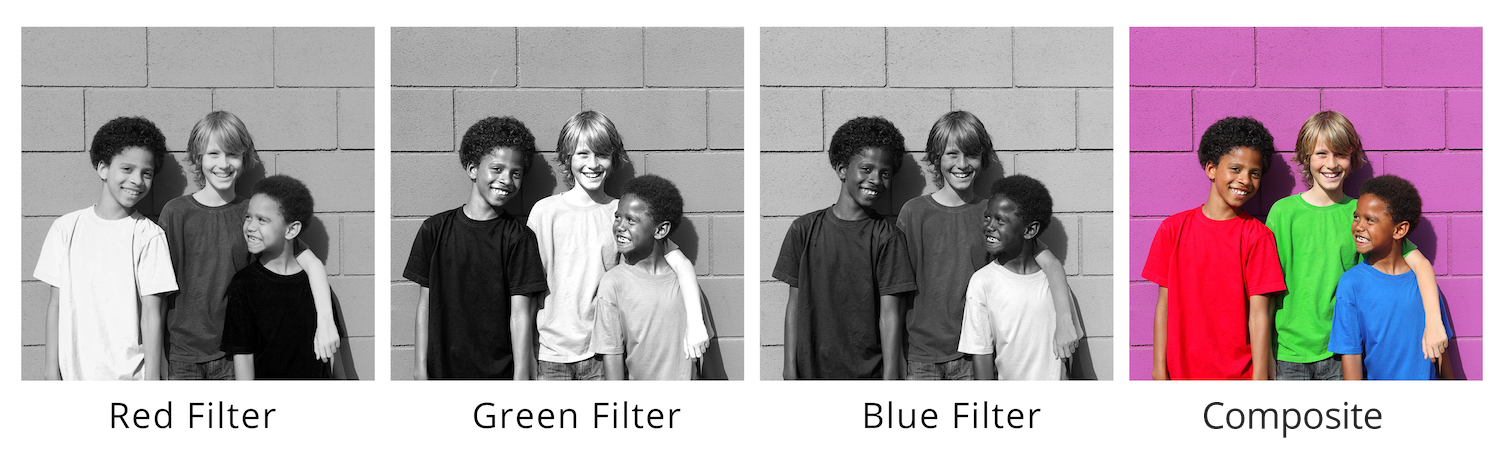
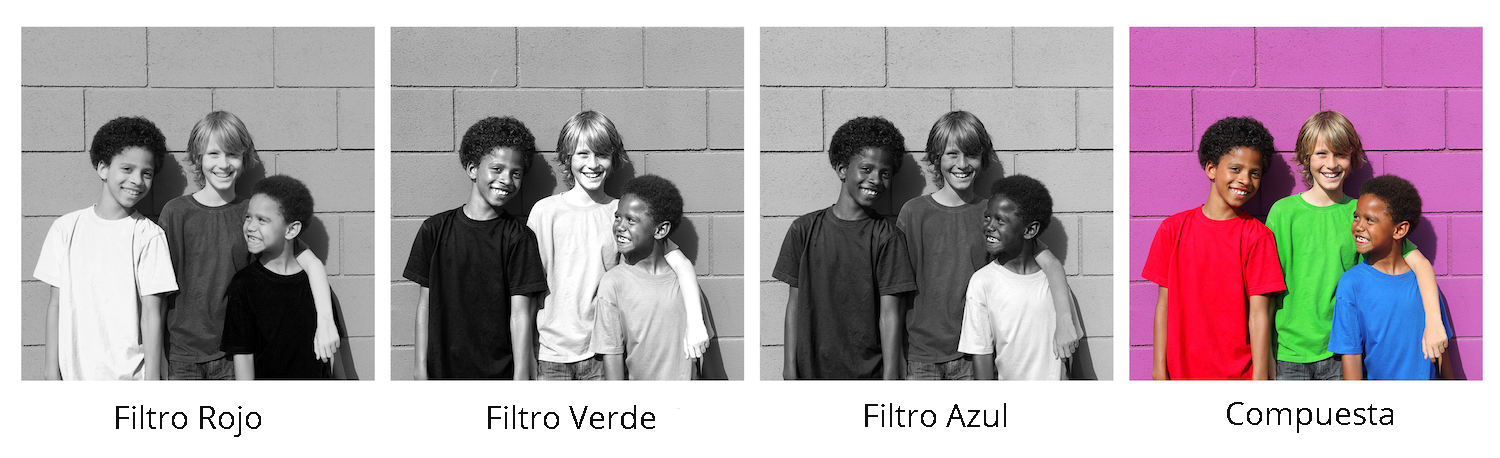
Spanish translation of graphics/button/dropdowns

diff --git a/es/pintando-el-universo/index.html b/es/pintando-el-universo/index.html
@@ -2,7 +2,7 @@
 <html lang="es" >
   <head>
     <meta charset="utf-8">
-    <meta name="Pintando el Univers" content="Coloring the Universe">
+    <meta name="Pintando el Univers" content="Pintando el Universo">
     <meta name="viewport" content="width=device-width, initial-scale=1">
     <title>Pintando el Universo</title>
     <link type="text/css" rel="stylesheet" href="https://stackpath.bootstrapcdn.com/bootstrap/4.1.3/css/bootstrap.min.css" integrity="sha384-MCw98/SFnGE8fJT3GXwEOngsV7Zt27NXFoaoApmYm81iuXoPkFOJwJ8ERdknLPMO" crossorigin="anonymous">
@@ -63,7 +63,7 @@
       <b>Tipos de luz</b>
       <p>Hay muchos tipos de <a href="https://imagine.gsfc.nasa.gov/science/toolbox/emspectrum1.html">radiación electromagnética</a>: ondas de radio, infrarrojo, visible, ultravioleta (UV), rayos X, etc. Los astrónomos se refieren a todos estos tipos de radiación como luz. Cada tipo de luz tiene un rango específico de longitudes de onda y energías. El tipo de luz que podemos ver con nuestros ojos se llama luz "visible".
     </p>
-    <img class="fig wide" src="assets/images/EM-spectrum-full.jpg">
+    <img class="fig wide" src="assets/images/EM-spectrum-full.png">
     <p class="credit">Figura 1: El Espectro Electromagnético. Adaptado de <a href="https://imagine.gsfc.nasa.gov/Images/science/EM_spectrum_full.jpg">https://imagine.gsfc.nasa.gov/Images/science/EM-spectrum-full.jpg</a></p>
     <p>La luz visible contiene todos los colores del arco iris, como se muestra a continuación. Los diferentes colores corresponden a diferentes longitudes de onda y energías. Dentro del rango de luz que podemos ver, la luz roja tiene la energía más baja y las longitudes de onda más largas; el violeta tiene la energía más alta y las longitudes de onda más cortas.</p>
     <img class="fig" src="assets/images/visible-spectrum2.png">
@@ -108,8 +108,8 @@
           </div>
         </div>
       </div>
-      <p id="prism-label">prisma</p>
-      <p id="white-light-label">la luz blanca →  </p>
+      <p id="prism-label">Prisma</p>
+      <p id="white-light-label">Luz blanca →  </p>
     </div>
     <input type="radio" class="prism-radio" name="prism" value="red" onchange="prismColor(this.value)"> Rojo</input>
     <input type="radio" class="prism-radio" name="prism" value="orange" onchange="prismColor(this.value)"> Naranja</input>
@@ -179,13 +179,13 @@
     <li>Elige las palabras correctas para terminar esta oración:</li>
     <p>"La polera roja se ve
       <select class="custom-select my-1 mr-sm-2 student-answer-mc">
-        <option selected>Choose ...</option>
+        <option selected>Elige ...</option>
         <option value="1">luminosa</option>
         <option value="2">obscura</option>
       </select>
       en la imagen tomada a través del filtro rojo porque el filtro rojo”
       <select class="custom-select my-1 mr-sm-2 student-answer-mc">
-        <option selected>Choose ...</option>
+        <option selected>Elige ...</option>
         <option value="1">deja pasar</option>
         <option value="2">bloquea</option>
       </select>
@@ -193,12 +193,12 @@
     <li>Elige las palabras correctas para terminar esta oración:
       <p>“La polera verde se ve
         <select class="custom-select my-1 mr-sm-2 student-answer-mc">
-          <option selected>Choose ...</option>
+          <option selected>Elige ...</option>
           <option value="1">luminosa</option>
           <option value="2">obscura</option>
         </select>  en la imagen tomada a través del filtro rojo porque el filtro rojo
         <select class="custom-select my-1 mr-sm-2 student-answer-mc">
-          <option selected>Choose ...</option>
+          <option selected>Elige ...</option>
           <option value="1">deja pasar</option>
           <option value="2">bloquea</option>
         </select>
@@ -226,30 +226,30 @@
       <!-- Words and Sliders -->
       <div class="col-12 col-md-4">
         <br>
-        <h1 class="widget-title">RGB Color Mixing Tool</h1>
+        <h1 class="widget-title">Herramienta para mezclar colores</h1>
         <br><br><br>
         <div class="filter" id="red-filter">
-          <p class="filter-titles titles-right">Colors </p>
-          <p class="filter-titles">Filter on/off </p>
+          <p class="filter-titles titles-right">Colores </p>
+          <p class="filter-titles">Filtro encendido/apagado </p>
           <input class="form-check-input" type="checkbox" onchange="check(this.parentNode.id)"><p class="filter-label">R</p>
           <input type="range" min=".7" max="1.5" step=".01" value="1.17" class="range" onchange="updateSlider(this.value, this.parentNode.id)">
           <select class="custom-select object-select" id="red-select" aria-label="Color" onchange="selectColor(this.value, this.parentNode.id)">
-            <option value="" disabled selected>Color</option>
+            <option value="" disabled selected>Colores</option>
             <option value="red">Rojo</option>
             <option value="green">Verde</option>
             <option value="blue">Azul</option>
-            <option value="transparent">None</option>
+            <option value="transparent">Ninguno</option>
           </select>
         </div>
         <div class="filter" id="green-filter">
           <input class="form-check-input" type="checkbox" onchange="check(this.parentNode.id)"> <p class="filter-label">G</p>
           <input type="range" min=".7" max="2" step=".01" value="1.64" onchange="updateSlider(this.value, this.parentNode.id)">
           <select class="custom-select object-select" id="green-select" aria-label="Color" onchange="selectColor(this.value, this.parentNode.id)">
-            <option value="" disabled selected>Color</option>
+            <option value="" disabled selected>Colores</option>
             <option value="red">Rojo</option>
             <option value="green">Verde</option>
             <option value="blue">Azul</option>
-            <option value="transparent">None</option>
+            <option value="transparent">Ninguno</option>
           </select>
         </div>
         
@@ -257,11 +257,11 @@
           <input class="form-check-input" type="checkbox" onchange="check(this.parentNode.id)"> <p class="filter-label">B</p>
           <input type="range" min=".7" max="1.5" step=".01" value="1.06" class="range"  onchange="updateSlider(this.value, this.parentNode.id)">
           <select class="custom-select object-select" onchange="selectColor(this.value, this.parentNode.id)">
-            <option value="" disabled selected>Color</option>
+            <option value="" disabled selected>Colores</option>
             <option value="red">Rojo</option>
             <option value="green">Verde</option>
             <option value="blue">Azul</option>
-            <option value="transparent">None</option>
+            <option value="transparent">Ninguno</option>
           </select>
         </div>
         
@@ -278,7 +278,7 @@
     <div class="row py-2">
       <div class="col-12 col-md-4"></div>
       <div class="col-12 col-md-8">
-        <button id="button" class="button" value="preset" name="preset" onclick="rgbReset()" >Reset</button>
+        <button id="button" class="button" value="preset" name="preset" onclick="rgbReset()" >Reiniciar</button>
       </div>
     </div>
     
@@ -379,7 +379,7 @@ Crédito de la imagen: <a href="https://www.spacetelescope.org/images/opo1036a/"
             <div class="center-sticky input-group ">
               <select class="custom-select object-select" aria-label="select an object" onchange="selectObject(this.value)">
                 <option >Select an Object</option>
-                <optgroup label="Spiral Galaxies">
+                <optgroup label="Galaxias Espiraless">
                   <option selected value="m33">M33</option>
                   <option value="m51">M51</option>
                   <option value="m63">M63</option>
@@ -387,7 +387,7 @@ Crédito de la imagen: <a href="https://www.spacetelescope.org/images/opo1036a/"
                   <option value="ngc6946">NGC6946</option>
                   <option value="ngc3718">NGC3718</option>
                 </optgroup>
-                <optgroup label="Nebulae">
+                <optgroup label="Nebulosas">
                   <option value="cg4">GG4</option>
                   <option value="b163">B163</option>
                   <option value="m78">M78</option>
@@ -398,12 +398,12 @@ Crédito de la imagen: <a href="https://www.spacetelescope.org/images/opo1036a/"
           </div>
           
           <div class="filter" id="u-filter">
-            <p class="filter-titles titles-right">Colors </p>
-            <p class="filter-titles">Filter on/off </p>
+            <p class="filter-titles titles-right">Colores </p>
+            <p class="filter-titles">Filtro encendido/apagado </p>
             <input class="form-check-input" type="checkbox" onchange="check(this.parentNode.id)"> <p class="filter-label">u</p>
             <input type="range" min="1.5" max="4" step=".01" value="1.92" class="range" onchange="updateSlider(this.value, this.parentNode.id)">
             <select class="custom-select object-select" aria-label="Color" onchange="selectColor(this.value, this.parentNode.id)">
-              <option value="" disabled selected>Color</option>
+              <option value="" disabled selected>Colores</option>
               <option value="violet">Violeta</option>
               <option value="blue">Azul</option>
               <option value="green">Verde</option>
@@ -412,7 +412,7 @@ Crédito de la imagen: <a href="https://www.spacetelescope.org/images/opo1036a/"
               <option value="red">Rojo</option>
               <option value="cyan">*Cian</option>
               <option value="magenta">*Magenta</option>
-              <option value="none">None</option>
+              <option value="none">Ninguno</option>
             </select>
           </div>
           
@@ -421,7 +421,7 @@ Crédito de la imagen: <a href="https://www.spacetelescope.org/images/opo1036a/"
             <input class="form-check-input" type="checkbox" onchange="check(this.parentNode.id)"> <p class="filter-label">g</p>
             <input type="range" min=".5" max="2.5" step=".01" value="1.08" onchange="updateSlider(this.value, this.parentNode.id)" >
             <select class="custom-select object-select" aria-label="Color" onchange="selectColor(this.value, this.parentNode.id)">
-              <option value="" disabled selected>Color</option>
+              <option value="" disabled selected>Colores</option>
               <option value="violet">Violeta</option>
               <option value="blue">Azul</option>
               <option value="green">Verde</option>
@@ -430,7 +430,7 @@ Crédito de la imagen: <a href="https://www.spacetelescope.org/images/opo1036a/"
               <option value="red">Rojo</option>
               <option value="cyan">*Cian</option>
               <option value="magenta">*Magenta</option>
-              <option value="none">None</option>
+              <option value="none">Ninguno</option>
             </select>
           </div>
           
@@ -438,7 +438,7 @@ Crédito de la imagen: <a href="https://www.spacetelescope.org/images/opo1036a/"
             <input class="form-check-input" onclick="check(this.parentNode.id)" type="checkbox"> <p class="filter-label">r</p>
             <input type="range" min="1" max="3" step=".01" value="1.45" class="range" onchange="updateSlider(this.value, this.parentNode.id)">
             <select class="custom-select object-select" aria-label="Color" onchange="selectColor(this.value, this.parentNode.id)">
-              <option value="" disabled selected>Color</option>
+              <option value="" disabled selected>Colores</option>
               <option value="violet">Violeta</option>
               <option value="blue">Azul</option>
               <option value="green">Verde</option>
@@ -447,14 +447,14 @@ Crédito de la imagen: <a href="https://www.spacetelescope.org/images/opo1036a/"
               <option value="red">Rojo</option>
               <option value="cyan">*Cian</option>
               <option value="magenta">*Magenta</option>
-              <option value="none">None</option>
+              <option value="none">Ninguno</option>
             </select>
           </div>
           <div class="filter" id="i-filter">
             <input class="form-check-input" onchange="check(this.parentNode.id)" type="checkbox"> <p class="filter-label">i</p>
             <input type="range" min=".5" max="1.5" step=".01" value=".52" class="range" onchange="updateSlider(this.value, this.parentNode.id)" >
             <select class="custom-select object-select" aria-label="Color" onchange="selectColor(this.value, this.parentNode.id)">
-              <option value="" disabled selected>Color</option>
+              <option value="" disabled selected>Colores</option>
               <option value="violet">Violeta</option>
               <option value="blue">Azul</option>
               <option value="green">Verde</option>
@@ -463,14 +463,14 @@ Crédito de la imagen: <a href="https://www.spacetelescope.org/images/opo1036a/"
               <option value="red">Rojo</option>
               <option value="cyan">*Cian</option>
               <option value="magenta">*Magenta</option>
-              <option value="none">None</option>
+              <option value="none">Ninguno</option>
             </select>
           </div>
           <div class="filter" id="z-filter">
             <input class="form-check-input " onchange="check(this.parentNode.id)" type="checkbox"> <p class="filter-label">z</p>
             <input type="range" min=".4" max="1.6" step=".01" value=".375" class="range" onchange="updateSlider(this.value, this.parentNode.id)">
             <select class="custom-select object-select" aria-label="Color" onchange="selectColor(this.value, this.parentNode.id)">
-              <option value="" disabled selected>Color</option>
+              <option value="" disabled selected>Colores</option>
               <option value="violet">Violeta</option>
               <option value="blue">Azul</option>
               <option value="green">Verde</option>
@@ -479,14 +479,14 @@ Crédito de la imagen: <a href="https://www.spacetelescope.org/images/opo1036a/"
               <option value="red">Rojo</option>
               <option value="cyan">*Cian</option>
               <option value="magenta">*Magenta</option>
-              <option value="none">None</option>
+              <option value="none">Ninguno</option>
             </select>
           </div>
           <div class="filter" id="y-filter">
             <input class="form-check-input " onchange="check(this.parentNode.id)" type="checkbox"> <p class="filter-label">y</p>
             <input type="range" min="1" max="3.5" step=".01" value="1.25" class="range" onchange="updateSlider(this.value, this.parentNode.id)">
             <select class="custom-select object-select" aria-label="Color" onchange="selectColor(this.value, this.parentNode.id)">
-              <option value="" disabled selected>Color</option>
+              <option value="" disabled selected>Colores</option>
               <option value="violet">Violeta</option>
               <option value="blue">Azul</option>
               <option value="green">Verde</option>
@@ -495,7 +495,7 @@ Crédito de la imagen: <a href="https://www.spacetelescope.org/images/opo1036a/"
               <option value="red">Rojo</option>
               <option value="cyan">*Cian</option>
               <option value="magenta">*Magenta</option>
-              <option value="none">None</option>
+              <option value="none">Ninguno</option>
             </select>
           </div>
         </div>
@@ -515,7 +515,7 @@ Crédito de la imagen: <a href="https://www.spacetelescope.org/images/opo1036a/"
       <div class="row py-2">
         <div class="col-4"></div>
         <div class="col-12 col-md-8">
-          <button id="button" class="button" value="preset" name="preset" onclick="" >Reset</button>
+          <button id="button" class="button" value="preset" name="preset" onclick="" >Reiniciar</button>
           
         </div>
       </div>
@@ -591,7 +591,7 @@ Crédito de la imagen: <a href="https://www.spacetelescope.org/images/opo1036a/"
       <li> Estás usando anteojos de sol y notas que las lentes de tus anteojos hacen que el sol se vea de color amarillo. ¿Cuál es la explicación más probable para este cambio de color?
       </li>
       <select class="custom-select student-answer mt-2 mb-2" aria-label="select an object">
-        <option selected>Choose ...</option>
+        <option selected>Elige ...</option>
         <option>a. las lentes de tus anteojos de sol transforman la luz blanca del sol en luz amarilla.</option>
         <option>b. las lentes de tus anteojos de sol reflejan la luz amarilla pero transmiten otros colores.</option>
         <option>c. las lentes de tus anteojos de sol transmiten la luz amarilla pero bloquean otros colores.</option>
@@ -618,10 +618,11 @@ Crédito de la imagen: <a href="https://www.spacetelescope.org/images/opo1036a/"
     <textarea class="form-control summary" rows="5"></textarea>
     <p> ¡Asegúrate de guardar / imprimir tu imagen!</p>
     <button class="button">Submit</button>
+    <br><br>  
   </div>
   <!-- Draft Text -->
   <footer class="footer fixed-bottom bg-light pt-3">
-    <p class=" copyright text-sm-left ml-5">Thank you for helping us test this workspace, which is in development. Please submit feedback to <a href="mailto:education@lsst.org">education@lsst.org</a></p>
+    <p class=" copyright text-sm-left ml-5">Gracias por ayudarnos a probar este espacio de trabajo, que está aún en desarrollo. Por favor envía tus comentarios a <a href="mailto:education@lsst.org">education@lsst.org</a><button type="button" class="close mr-3" aria-label="Close" onclick="document.getElementById('footer').style.display = 'none'"></p>
   </footer>
   <script src="https://code.jquery.com/jquery-3.3.1.slim.min.js" integrity="sha384-q8i/X+965DzO0rT7abK41JStQIAqVgRVzpbzo5smXKp4YfRvH+8abtTE1Pi6jizo" crossorigin="anonymous"></script>
   <script src="https://cdnjs.cloudflare.com/ajax/libs/popper.js/1.14.6/umd/popper.min.js" integrity="sha384-wHAiFfRlMFy6i5SRaxvfOCifBUQy1xHdJ/yoi7FRNXMRBu5WHdZYu1hA6ZOblgut" crossorigin="anonymous"></script>

diff --git a/es/pintando-el-universo/css/style.css b/es/pintando-el-universo/css/style.css
@@ -437,7 +437,7 @@ input[type=range]::-webkit-slider-thumb {
 }
 
 .object-select {
-  font-size: 18px;
+  font-size: 16px;
   float: right;
   width: 100px;
   outline: 0;
